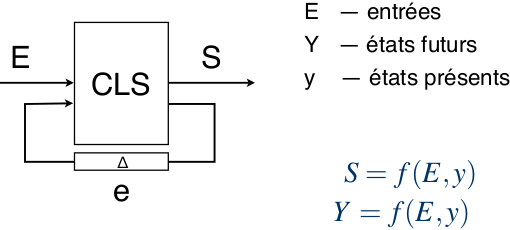
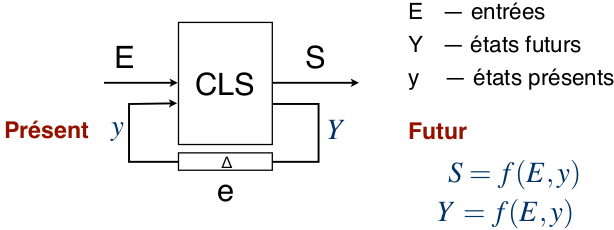
modif ch6 CLN

diff --git a/IRCI3/Circuits logiques et numériques/ch6/ch6.tex b/IRCI3/Circuits logiques et numériques/ch6/ch6.tex
@@ -77,7 +77,7 @@ Si les entrées sont:
 Imaginons le système dans l'état 2 (état présent). Si $c_2=0$ alors le système va se trouver dans l'état 3 (état futur). On passe d'un état à l'autre (succession d'état).
 \section{Systèmes séquentiels formellement}
 Les sorties de ces systèmes dépendent aussi de l'état interne. Ils décident de leurs états futurs en fonction des entrées ET de leurs états présents.\\
-La différence entre l'état futur et l'état présent s'explique par la notion de délais (ajout de temps de propagation)
+La différence entre l'état futur et l'état présent (notion de \textit{rétroaction}) s'explique par la notion de délais (ajout de temps de propagation)
 \begin{figure}[H]
 	\centering
 	\includegraphics[width=.7\textwidth]{ch6/image5}
@@ -148,4 +148,4 @@ Dans la \autoref{fig:transit}, les entrées changent de $00\rightarrow 01\righta
 	\label{fig:transit}
 \end{figure}
 On se retrouve donc dans des états différents pour une «même» transition
-\paragraph{Remarque} Bien que le graphe d'état et la table de Huffman sont équivalent au niveau formel, on préférera la table car lors de son écriture, toutes les possibilités y sont représentées, alors qu'il est facile d'en oublier sur le graphe d'état.
+\paragraph{Remarque} Bien que le graphe d'état et la table de Huffman soient équivalents au niveau formel, on préférera la table car lors de son écriture, toutes les possibilités y sont représentées, alors qu'il est facile d'en oublier sur le graphe d'état.
